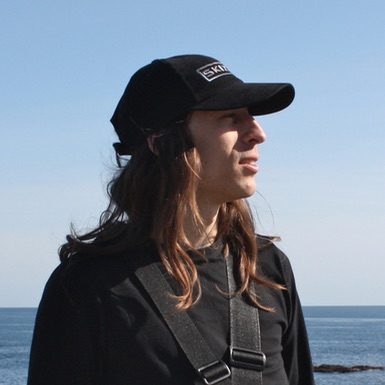
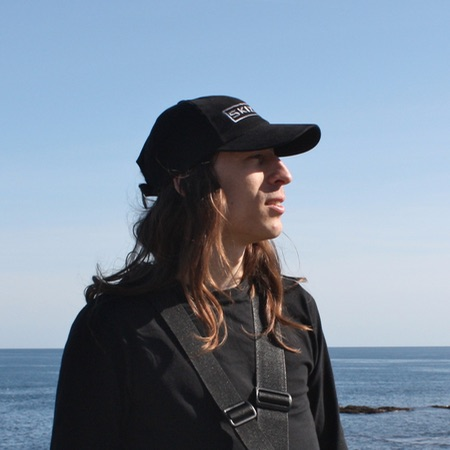
Foto y textos mejorados

diff --git a/_includes/content.html b/_includes/content.html
@@ -1,7 +1,6 @@
 <h2>About my</h2>
 <p>Hi, my name is Dídac and I'm a web developer! I'm living halfway between Barcelona and Terrassa.</p>
-<p>If I'm not at the computer, I'm probably climbing.<br>¯\_(ツ)_/¯</p>
-<br>
+<p>If I'm not at the computer, I'm probably climbing. &nbsp; ¯\_(ツ)_/¯</p>
 
 <h2>Skills</h2>
 <ul>
@@ -23,10 +22,10 @@
 <ul class="fa-ul main-list">
   <li class="main-list-item">
     <span class="fa fa-github fa-lg main-list-item-icon"></span>
-    <a href="https://github.com/didaquis">didaquis on GitHub</a>
+    <a href="https://github.com/didaquis">Explore my GitHub</a>
   </li>
   <li class="main-list-item">
     <span class="fa fa-twitter fa-lg main-list-item-icon"></span>
-    <a href="https://twitter.com/didaquis">@didaquis</a>
+    <a href="https://twitter.com/didaquis">Follow me on Twitter</a>
   </li>
 </ul>

diff --git a/assets/main.scss b/assets/main.scss
@@ -116,7 +116,7 @@ footer {
 	/* wrapper stays 480px wide past 480px wide and is kept centered */
 	.wrapper {
 		width: 480px;
-		margin: 10% auto 0 auto;
+		margin: 6% auto 0 auto;
 	}
 }
 
